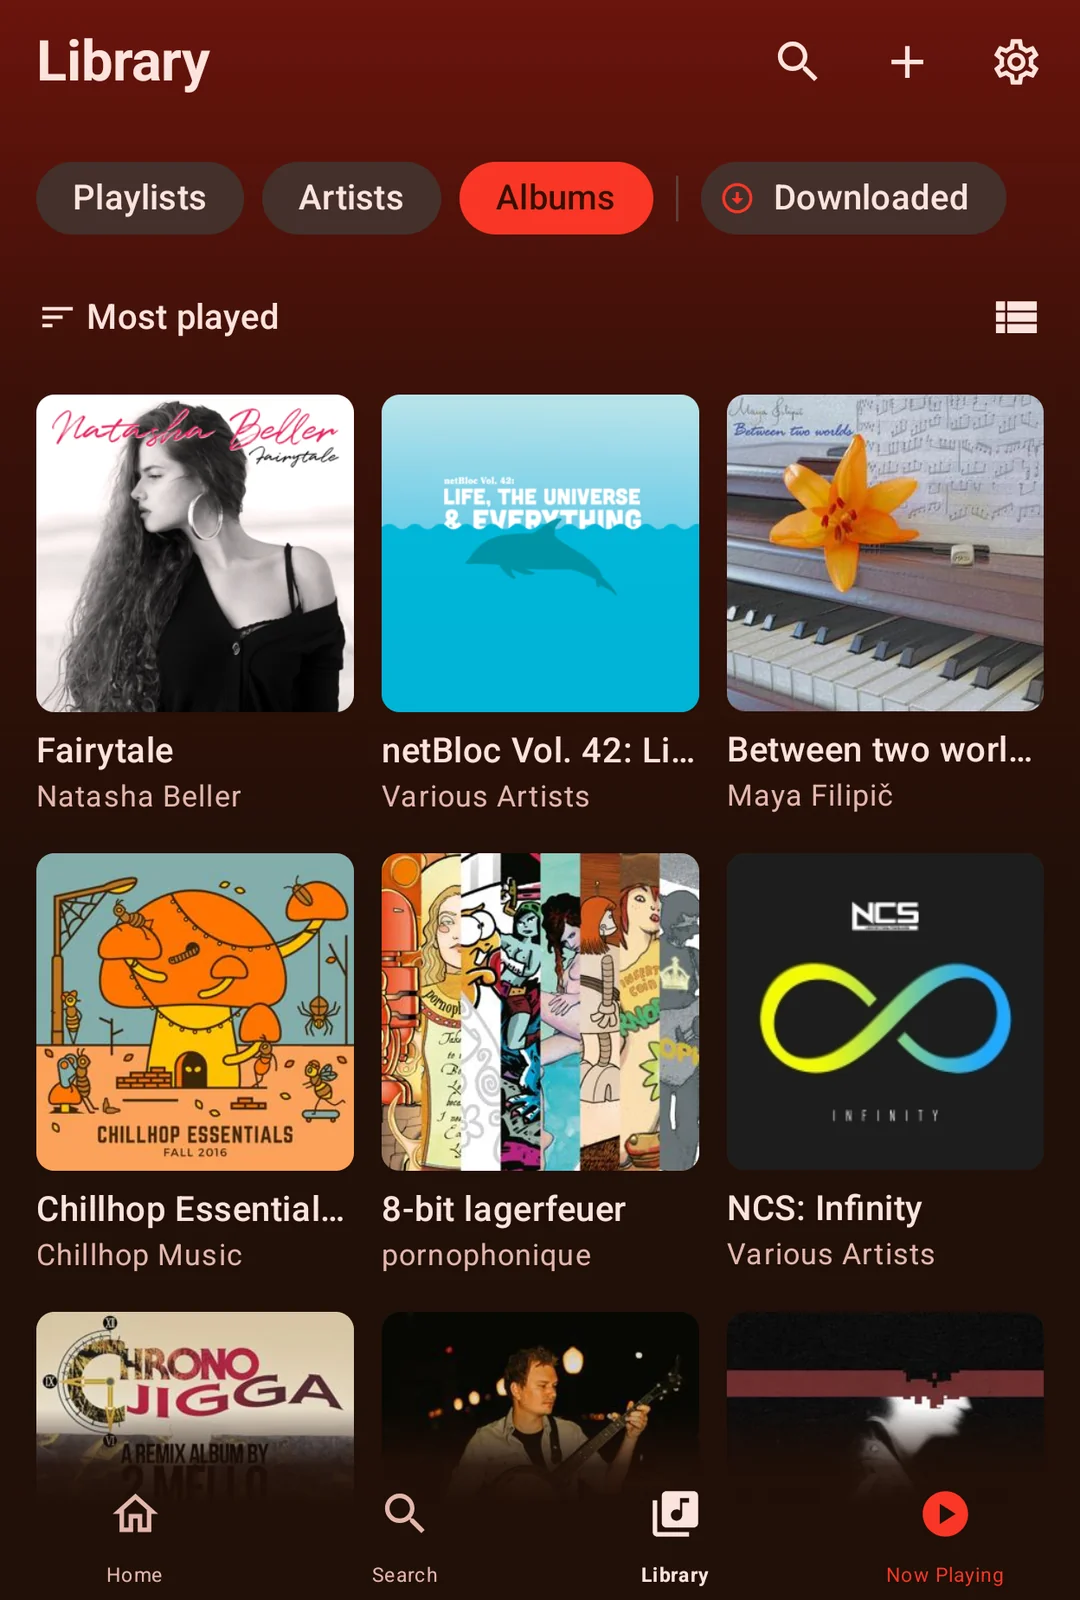
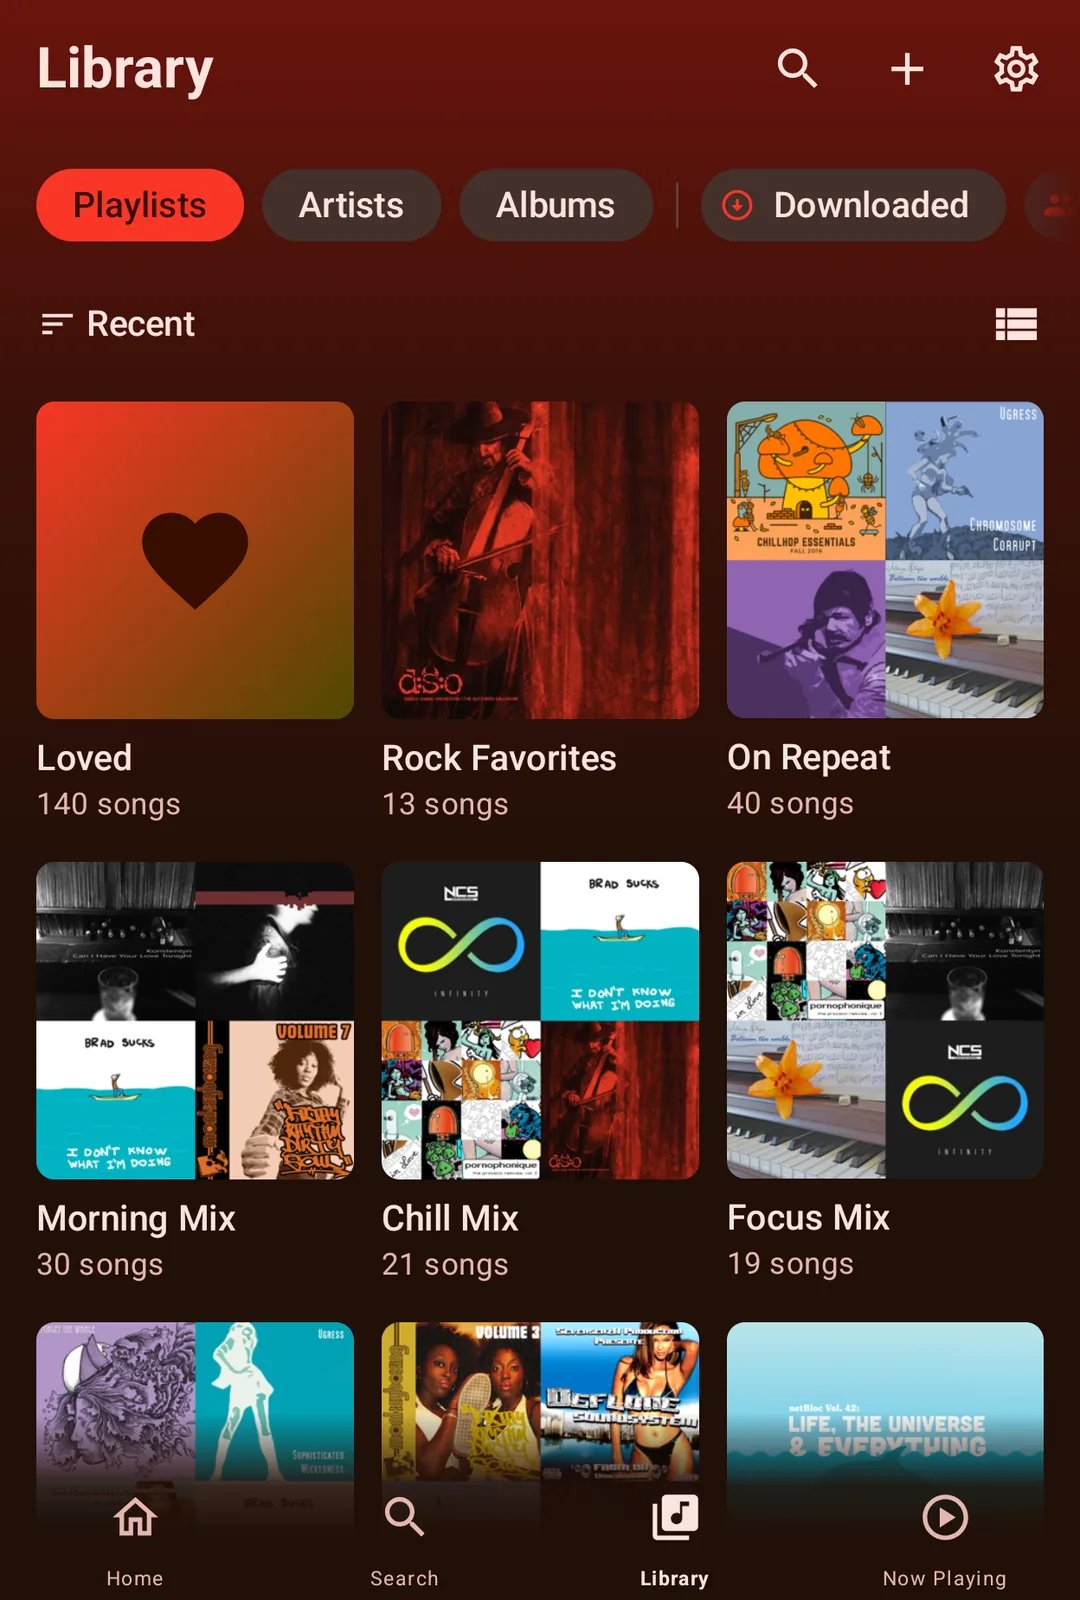
Screenshots: Starred row, starred album and playlist, Library filter row

diff --git a/docs/index.html b/docs/index.html
@@ -97,15 +97,15 @@ footer { color: var(--soft); font-size: 0.9rem; max-width: 44em; margin: 48px au
 <main>
 <div class="shots">
 <a href="screenshots/01-now-playing-cyan.webp"><img src="screenshots/01-now-playing-cyan.webp" width="270" height="400" loading="lazy" alt="Now Playing, coloured from the album cover"></a>
-<a href="screenshots/02-home.webp"><img src="screenshots/02-home.webp" width="270" height="400" loading="lazy" alt="Home"></a>
+<a href="screenshots/02-home.webp"><img src="screenshots/02-home.webp" width="270" height="400" loading="lazy" alt="Home, with a Starred row of albums, artists and playlists"></a>
 <a href="screenshots/03-visualiser.webp"><img src="screenshots/03-visualiser.webp" width="270" height="400" loading="lazy" alt="The MilkDrop visualiser"></a>
-<a href="screenshots/04-library.webp"><img src="screenshots/04-library.webp" width="270" height="400" loading="lazy" alt="Library: albums"></a>
+<a href="screenshots/04-library.webp"><img src="screenshots/04-library.webp" width="270" height="400" loading="lazy" alt="Library: playlists, with the filter row"></a>
 <a href="screenshots/05-now-playing-orange.webp"><img src="screenshots/05-now-playing-orange.webp" width="270" height="400" loading="lazy" alt="Now Playing on an orange cover"></a>
 <a href="screenshots/06-queue.webp"><img src="screenshots/06-queue.webp" width="270" height="400" loading="lazy" alt="The play queue"></a>
 <a href="screenshots/07-lyrics.webp"><img src="screenshots/07-lyrics.webp" width="270" height="400" loading="lazy" alt="Synced lyrics"></a>
 <a href="screenshots/08-now-playing-flower.webp"><img src="screenshots/08-now-playing-flower.webp" width="270" height="400" loading="lazy" alt="Now Playing on a muted cover"></a>
-<a href="screenshots/09-album.webp"><img src="screenshots/09-album.webp" width="270" height="400" loading="lazy" alt="An album"></a>
-<a href="screenshots/10-playlist.webp"><img src="screenshots/10-playlist.webp" width="270" height="400" loading="lazy" alt="Playlist options: download, share, rename, reorder, earlier versions"></a>
+<a href="screenshots/09-album.webp"><img src="screenshots/09-album.webp" width="270" height="400" loading="lazy" alt="A starred album"></a>
+<a href="screenshots/10-playlist.webp"><img src="screenshots/10-playlist.webp" width="270" height="400" loading="lazy" alt="A starred playlist and its options: download, share, rename, reorder, change picture, earlier versions"></a>
 <a href="screenshots/11-settings.webp"><img src="screenshots/11-settings.webp" width="270" height="400" loading="lazy" alt="Settings, with the colour picker"></a>
 <a href="screenshots/12-kids.webp"><img src="screenshots/12-kids.webp" width="270" height="400" loading="lazy" alt="Kids' accounts in Settings"></a>
 </div>

diff --git a/README.md b/README.md
@@ -11,11 +11,11 @@ the *th* of "weather" in place of the *f*. ASCII spelling: Seidr.
 
 <p>
   <img src="docs/screenshots/01-now-playing-cyan.webp" width="32%" alt="Now Playing, coloured from the album cover">
-  <img src="docs/screenshots/02-home.webp" width="32%" alt="Home">
+  <img src="docs/screenshots/02-home.webp" width="32%" alt="Home, with a Starred row of albums, artists and playlists">
   <img src="docs/screenshots/03-visualiser.webp" width="32%" alt="The MilkDrop visualiser">
 </p>
 <p>
-  <img src="docs/screenshots/04-library.webp" width="32%" alt="Library: albums">
+  <img src="docs/screenshots/04-library.webp" width="32%" alt="Library: playlists, with the filter row">
   <img src="docs/screenshots/05-now-playing-orange.webp" width="32%" alt="Now Playing on an orange cover">
   <img src="docs/screenshots/06-queue.webp" width="32%" alt="The play queue">
 </p>
